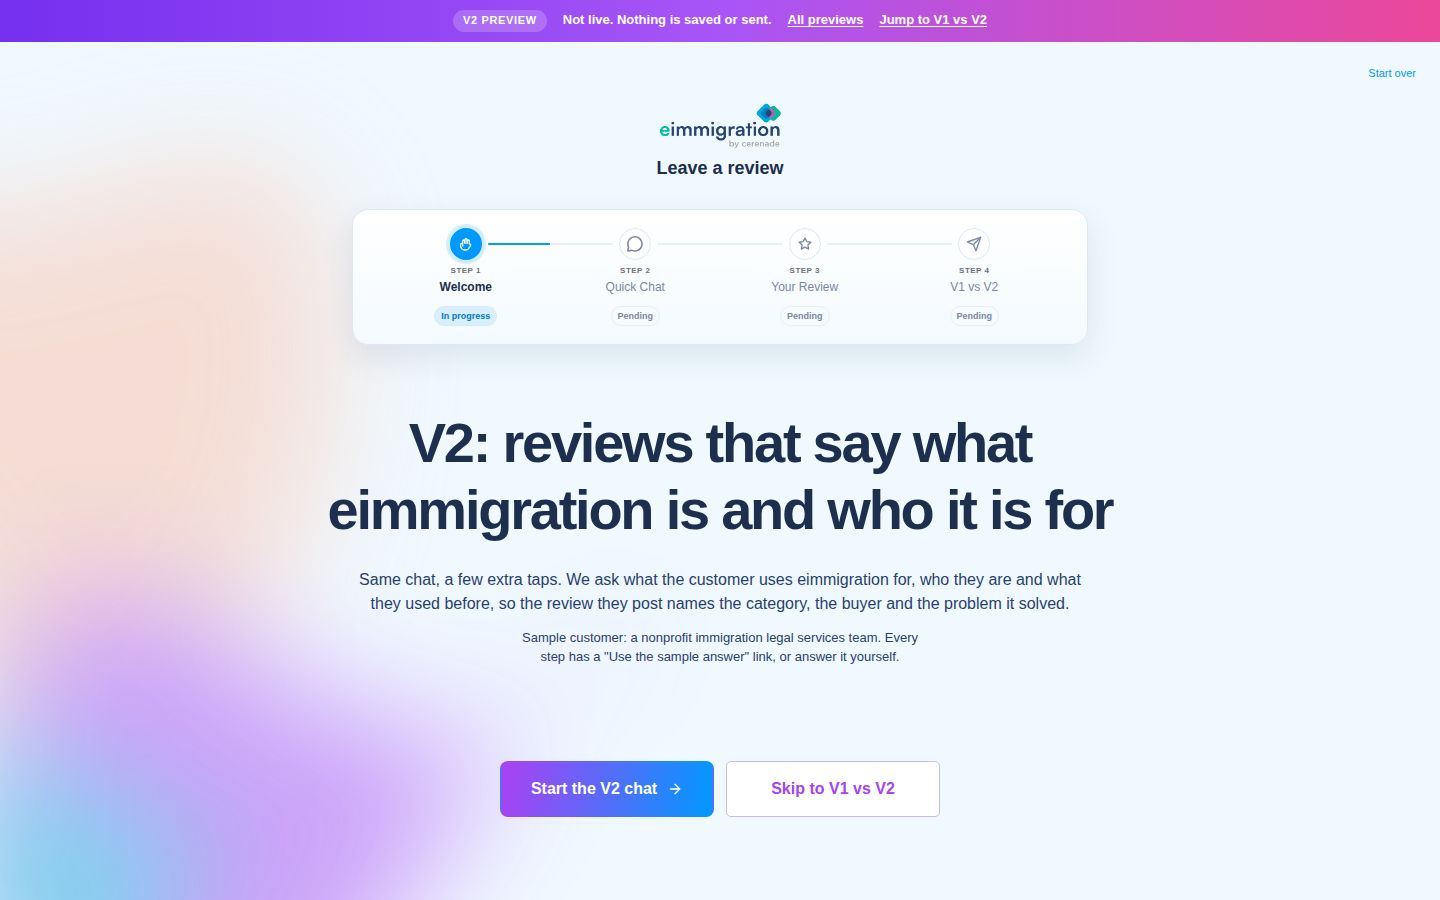
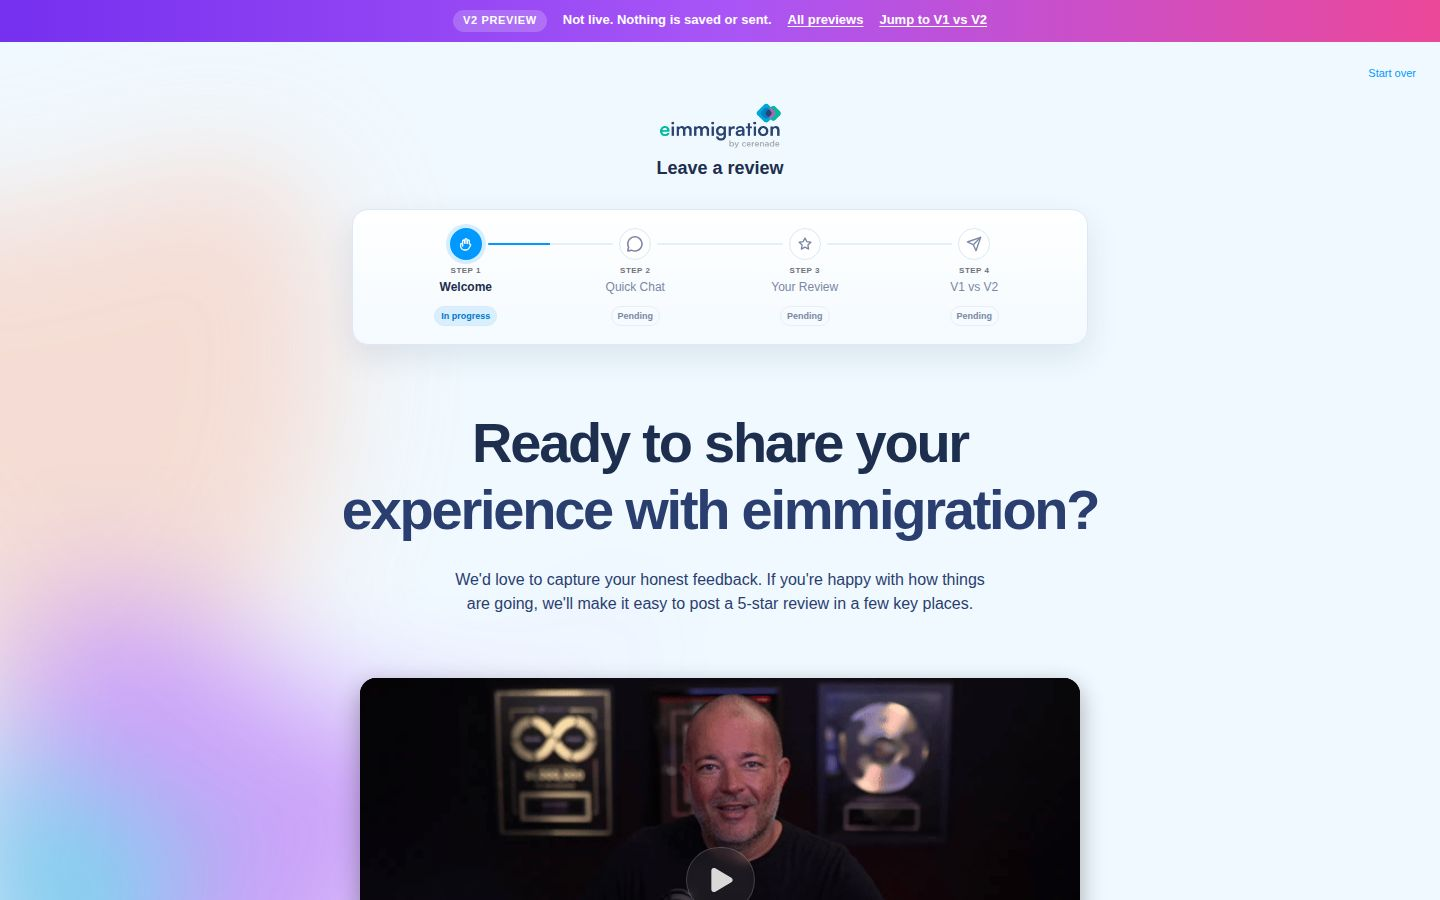
Use the live portal welcome screen in both V2 previews
The previews opened on a custom V2 intro ("V2: reviews that say what...",
a sample-customer line and a "Skip to V1 vs V2" button). They now open on
the same welcome screen as the live eimmigration and Lean Labs portals:
the same headline and intro, the intro video with its play overlay, the
heads-up note, "Takes about 3 minutes" and the Begin button.

- Markup copied from pages/clients/<slug>/index.html, with the video block
  app.js builds from welcomeVideoUrl and welcomeVideoPoster (same files).
- The Lean Labs heads-up line uses the eimmigration wording, which has a
  period where the original has an em dash.
- preview.js wires the play overlay like app.js does and pauses the video
  when Begin is clicked. The old welcome copy, persona line and their
  styles are gone. The banner still has "Jump to V1 vs V2".

Claude-Session: https://claude.ai/code/session_019MyLobZXUjzZbFPYuTrY5U

Changed region(s): [[0.2188, 0.4667, 0.7812, 1.0]]

diff --git a/pages/previews/v2/eimmigration/index.html b/pages/previews/v2/eimmigration/index.html
@@ -79,14 +79,30 @@
 <div id="screen-welcome" class="screen active">
   <div class="screen-content welcome-content">
     <div class="screen-header">
-      <h1 id="v2-welcome-title">V2 preview</h1>
-      <p id="v2-welcome-body"></p>
-      <p id="v2-persona" class="v2-persona"></p>
+      <h1>Ready to share your <span class="text-accent">experience with <span class="company-name">Company</span>?</span></h1>
+      <p>We'd love to capture your honest feedback. If you're happy with how things are going, we'll make it easy to post a 5-star review in a few key places.</p>
     </div>
-    <div class="v2-welcome-actions">
-      <button type="button" id="btn-start" class="btn btn-primary btn-lg">Start the V2 chat<svg xmlns="http://www.w3.org/2000/svg" width="20" height="20" viewBox="0 0 24 24" fill="none" stroke="currentColor" stroke-width="2" stroke-linecap="round" stroke-linejoin="round" aria-hidden="true"><path d="M5 12h14"/><path d="m12 5 7 7-7 7"/></svg></button>
-      <a class="btn btn-tertiary btn-lg" href="?jump=compare">Skip to V1 vs V2</a>
+    <div id="welcome-video-host" class="welcome-media">
+      <div class="welcome-video-wrap">
+        <video id="welcome-video" class="welcome-video" playsinline preload="none" poster="/assets/image/7c248b618a126294316f6a.gif">
+          <source id="welcome-video-source" src="/assets/video/Reputation%20Rocket%20Intro.mp4" type="video/mp4">
+        </video>
+        <button type="button" class="welcome-video-play" aria-label="Play video"><span class="welcome-video-play-icon" aria-hidden="true"><svg xmlns="http://www.w3.org/2000/svg" width="16" height="18" viewBox="0 0 16 18" fill="none"><path d="M8.78626e-08 2.00059C-0.000104208 1.64868 0.0926453 1.30298 0.268884 0.998383C0.445122 0.693786 0.69861 0.441083 1.00375 0.265789C1.30889 0.090495 1.65488 -0.00118309 2.00679 1.15272e-05C2.3587 0.00120614 2.70406 0.0952313 3.008 0.272593L15.005 7.27059C15.3078 7.44627 15.5591 7.69834 15.7339 8.0016C15.9088 8.30486 16.0009 8.64869 16.0012 8.99873C16.0015 9.34877 15.91 9.69276 15.7357 9.99633C15.5614 10.2999 15.3105 10.5524 15.008 10.7286L3.008 17.7286C2.70406 17.906 2.3587 18 2.00679 18.0012C1.65488 18.0024 1.30889 17.9107 1.00375 17.7354C0.69861 17.5601 0.445122 17.3074 0.268884 17.0028C0.0926453 16.6982 -0.000104208 16.3525 8.78626e-08 16.0006V2.00059Z" fill="#D9D9D9"/></svg></span></button>
+      </div>
     </div>
+    <div>
+      <div class="welcome-callout">
+        <span class="welcome-callout-icon" aria-hidden="true">
+          <svg viewBox="0 0 24 24"><circle cx="12" cy="12" r="9"/><path d="M8.5 13.5c1.2 1.4 5.8 1.4 7 0"/><path d="M9 9.5h.01M15 9.5h.01"/></svg>
+        </span>
+        <p><strong>Heads up:</strong> the hardest part is logging into review sites. We'll handle the drafting and walk you through every step.</p>
+      </div>
+      <p class="welcome-note">
+        <svg viewBox="0 0 24 24" aria-hidden="true"><circle cx="12" cy="12" r="9"/><path d="M12 7v5l3 2"/></svg>
+        <span>Takes about 3 minutes. We'll draft everything for you.</span>
+      </p>
+    </div>
+    <div class="welcome-cta"><button id="btn-start" class="btn btn-primary btn-lg">Begin<svg xmlns="http://www.w3.org/2000/svg" width="20" height="20" viewBox="0 0 24 24" fill="none" stroke="currentColor" stroke-width="2" stroke-linecap="round" stroke-linejoin="round" class="lucide lucide-arrow-right-icon lucide-arrow-right"><path d="M5 12h14"/><path d="m12 5 7 7-7 7"/></svg></button></div>
   </div>
 </div>
 

diff --git a/pages/previews/v2/lean-labs/index.html b/pages/previews/v2/lean-labs/index.html
@@ -79,14 +79,30 @@
 <div id="screen-welcome" class="screen active">
   <div class="screen-content welcome-content">
     <div class="screen-header">
-      <h1 id="v2-welcome-title">V2 preview</h1>
-      <p id="v2-welcome-body"></p>
-      <p id="v2-persona" class="v2-persona"></p>
+      <h1>Ready to share your <span class="text-accent">experience with <span class="company-name">Company</span>?</span></h1>
+      <p>We'd love to capture your honest feedback. If you're happy with how things are going, we'll make it easy to post a 5-star review in a few key places.</p>
     </div>
-    <div class="v2-welcome-actions">
-      <button type="button" id="btn-start" class="btn btn-primary btn-lg">Start the V2 chat<svg xmlns="http://www.w3.org/2000/svg" width="20" height="20" viewBox="0 0 24 24" fill="none" stroke="currentColor" stroke-width="2" stroke-linecap="round" stroke-linejoin="round" aria-hidden="true"><path d="M5 12h14"/><path d="m12 5 7 7-7 7"/></svg></button>
-      <a class="btn btn-tertiary btn-lg" href="?jump=compare">Skip to V1 vs V2</a>
+    <div id="welcome-video-host" class="welcome-media">
+      <div class="welcome-video-wrap">
+        <video id="welcome-video" class="welcome-video" playsinline preload="none" poster="/assets/image/7c248b618a126294316f6a.gif">
+          <source id="welcome-video-source" src="/assets/video/Reputation%20Rocket%20Intro.mp4" type="video/mp4">
+        </video>
+        <button type="button" class="welcome-video-play" aria-label="Play video"><span class="welcome-video-play-icon" aria-hidden="true"><svg xmlns="http://www.w3.org/2000/svg" width="16" height="18" viewBox="0 0 16 18" fill="none"><path d="M8.78626e-08 2.00059C-0.000104208 1.64868 0.0926453 1.30298 0.268884 0.998383C0.445122 0.693786 0.69861 0.441083 1.00375 0.265789C1.30889 0.090495 1.65488 -0.00118309 2.00679 1.15272e-05C2.3587 0.00120614 2.70406 0.0952313 3.008 0.272593L15.005 7.27059C15.3078 7.44627 15.5591 7.69834 15.7339 8.0016C15.9088 8.30486 16.0009 8.64869 16.0012 8.99873C16.0015 9.34877 15.91 9.69276 15.7357 9.99633C15.5614 10.2999 15.3105 10.5524 15.008 10.7286L3.008 17.7286C2.70406 17.906 2.3587 18 2.00679 18.0012C1.65488 18.0024 1.30889 17.9107 1.00375 17.7354C0.69861 17.5601 0.445122 17.3074 0.268884 17.0028C0.0926453 16.6982 -0.000104208 16.3525 8.78626e-08 16.0006V2.00059Z" fill="#D9D9D9"/></svg></span></button>
+      </div>
     </div>
+    <div>
+      <div class="welcome-callout">
+        <span class="welcome-callout-icon" aria-hidden="true">
+          <svg viewBox="0 0 24 24"><circle cx="12" cy="12" r="9"/><path d="M8.5 13.5c1.2 1.4 5.8 1.4 7 0"/><path d="M9 9.5h.01M15 9.5h.01"/></svg>
+        </span>
+        <p><strong>Heads up:</strong> the hardest part is logging into review sites. We'll handle the drafting and walk you through every step.</p>
+      </div>
+      <p class="welcome-note">
+        <svg viewBox="0 0 24 24" aria-hidden="true"><circle cx="12" cy="12" r="9"/><path d="M12 7v5l3 2"/></svg>
+        <span>Takes about 3 minutes. We'll draft everything for you.</span>
+      </p>
+    </div>
+    <div class="welcome-cta"><button id="btn-start" class="btn btn-primary btn-lg">Begin<svg xmlns="http://www.w3.org/2000/svg" width="20" height="20" viewBox="0 0 24 24" fill="none" stroke="currentColor" stroke-width="2" stroke-linecap="round" stroke-linejoin="round" class="lucide lucide-arrow-right-icon lucide-arrow-right"><path d="M5 12h14"/><path d="m12 5 7 7-7 7"/></svg></button></div>
   </div>
 </div>
 

diff --git a/pages/previews/v2/preview.js b/pages/previews/v2/preview.js
@@ -662,15 +662,26 @@
   // ── Start ─────────────────────────────────────────────────────────
   function fillBrand() {
     $$('.company-name, .provider-name').forEach((n) => { n.textContent = P.company; });
-    const t = $('#v2-welcome-title');
-    if (t) t.textContent = P.welcome.title;
-    const b = $('#v2-welcome-body');
-    if (b) b.textContent = P.welcome.body;
-    const persona = $('#v2-persona');
-    if (persona) persona.textContent = `${P.personaLabel}. Every step has a "Use the sample answer" link, or answer it yourself.`;
+  }
+
+  // Same intro video as the live welcome screen: the play overlay shows the
+  // native controls and starts playback.
+  function wireWelcomeVideo() {
+    const wrap = $('.welcome-video-wrap');
+    const vid = $('#welcome-video');
+    const play = $('.welcome-video-play');
+    if (!wrap || !vid || !play) return;
+    play.addEventListener('click', () => {
+      vid.controls = true;
+      wrap.classList.add('is-playing');
+      const p = vid.play();
+      if (p && typeof p.catch === 'function') p.catch(() => {});
+    });
   }
 
   function start() {
+    const vid = $('#welcome-video');
+    if (vid) vid.pause();
     const m = messages();
     if (m) {
       m.setAttribute('role', 'log');
@@ -690,6 +701,7 @@
 
   document.addEventListener('DOMContentLoaded', () => {
     fillBrand();
+    wireWelcomeVideo();
     wireDraftButtons();
     const begin = $('#btn-start');
     if (begin) begin.addEventListener('click', start);

diff --git a/pages/previews/v2/eimmigration/script.js b/pages/previews/v2/eimmigration/script.js
@@ -18,10 +18,6 @@ window.V2_PREVIEW = {
   personaLabel: 'Sample customer: a nonprofit immigration legal services team',
   bestForWho: 'teams',
 
-  welcome: {
-    title: 'V2: reviews that say what eimmigration is and who it is for',
-    body: 'Same chat, a few extra taps. We ask what the customer uses eimmigration for, who they are and what they used before, so the review they post names the category, the buyer and the problem it solved.',
-  },
   draftsReady: "Thanks so much for sharing.\n\nThese drafts are a preview of the reviews. You can read and edit them here. Nothing is published or sent.",
 
   steps: [

diff --git a/pages/previews/v2/lean-labs/script.js b/pages/previews/v2/lean-labs/script.js
@@ -21,10 +21,6 @@ window.V2_PREVIEW = {
   personaLabel: 'Sample customer: a marketing leader at an industrial company',
   bestForWho: 'companies',
 
-  welcome: {
-    title: 'V2: reviews that say what Lean Labs did and who it was for',
-    body: 'Same chat, a few extra taps. We ask what the client hired Lean Labs for, how each service went, who they are and what they had before, so the review names the service, the buyer and the problem we solved.',
-  },
   draftsReady: '',
 
   steps: [

diff --git a/pages/previews/v2/preview.css b/pages/previews/v2/preview.css
@@ -45,18 +45,6 @@ body.v2-preview .site-header { position: relative; }
   text-transform: uppercase;
 }
 
-.v2-persona {
-  margin-top: 16px;
-  font-size: 0.8125rem;
-  color: var(--ll-muted);
-}
-.v2-welcome-actions {
-  display: flex;
-  flex-wrap: wrap;
-  gap: 12px;
-  justify-content: center;
-  margin-top: 32px;
-}
 
 /* Choice bar extras (multi-select, single-select, grid) */
 .v2-choice-scroll {
